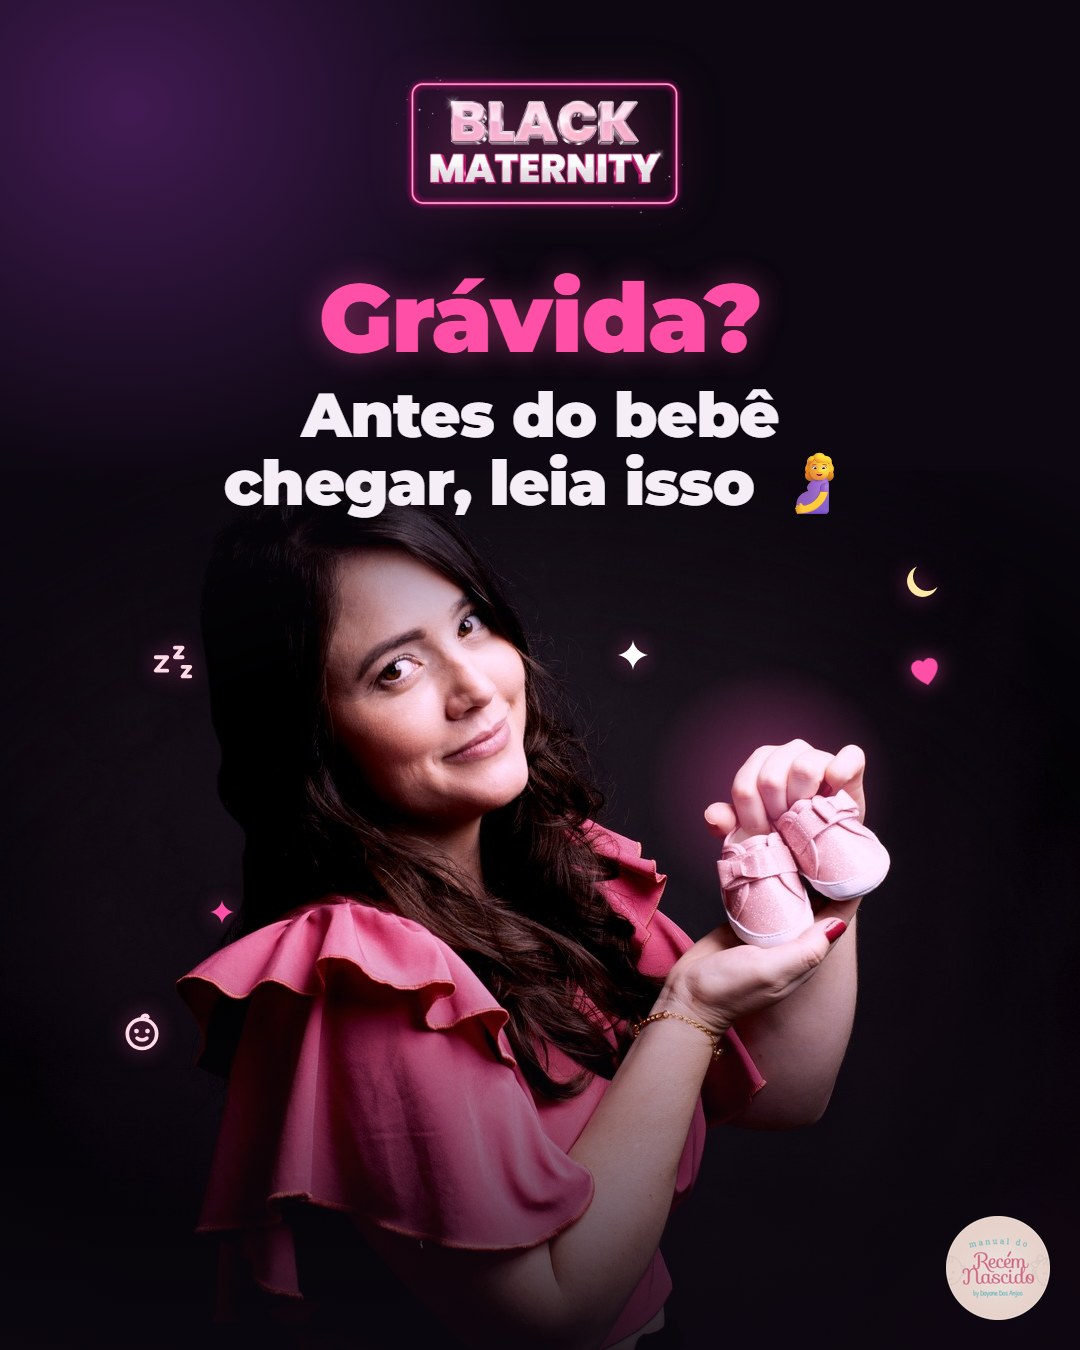
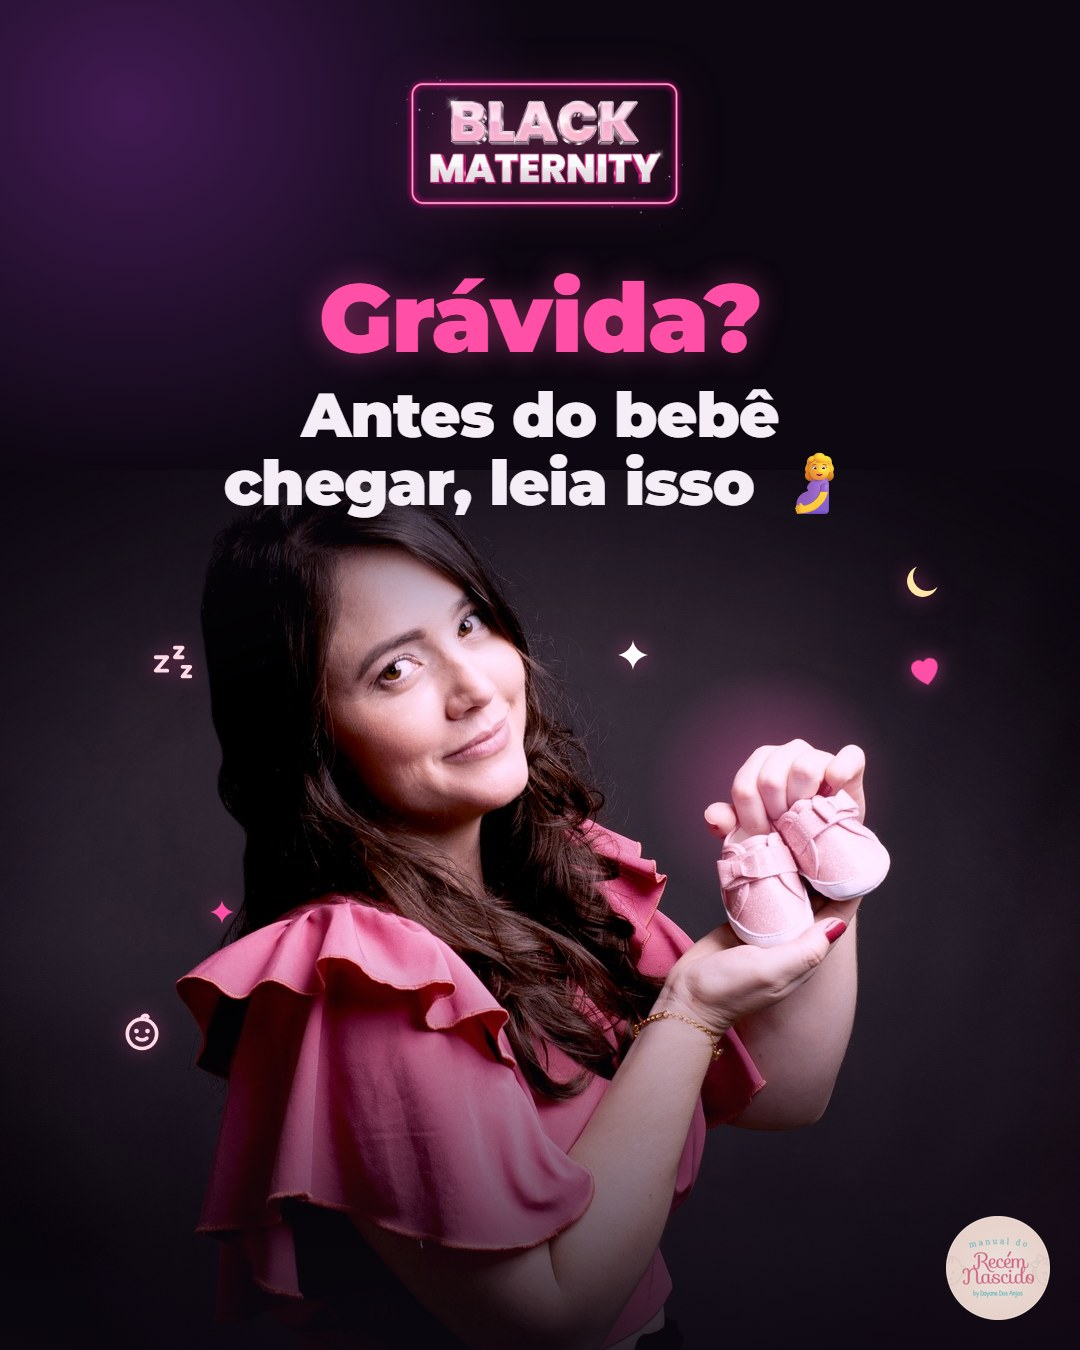
previa black maternity: fotos da Day mais claras

Changed region(s): [[0.0306, 0.4356, 0.9167, 0.8089], [0.4278, 0.4356, 0.4583, 0.4667]]

diff --git a/2026-11-09-carrossel-black-maternity/index.html b/2026-11-09-carrossel-black-maternity/index.html
@@ -19,12 +19,12 @@ pre{white-space:pre-wrap;background:#1B0F22;border:1px solid #3A2346;border-radi
 <div class="eb">Prévia · Instagram @manualdorecemnascido</div>
 <h1>Carrossel Black Maternity 🤰</h1>
 <p class="s">Para gestantes. As lâminas estão na ordem do post, de cima para baixo.</p>
-<div class="car"><figure><img src='01.jpg' alt='Lâmina 1' loading='lazy'><figcaption>1</figcaption></figure><figure><img src='02.jpg' alt='Lâmina 2' loading='lazy'><figcaption>2</figcaption></figure><figure><img src='03.jpg' alt='Lâmina 3' loading='lazy'><figcaption>3</figcaption></figure><figure><img src='04.jpg' alt='Lâmina 4' loading='lazy'><figcaption>4</figcaption></figure><figure><img src='05.jpg' alt='Lâmina 5' loading='lazy'><figcaption>5</figcaption></figure></div>
+<div class="car"><figure><img src='01.jpg?v=2' alt='Lâmina 1' loading='lazy'><figcaption>1</figcaption></figure><figure><img src='02.jpg?v=2' alt='Lâmina 2' loading='lazy'><figcaption>2</figcaption></figure><figure><img src='03.jpg?v=2' alt='Lâmina 3' loading='lazy'><figcaption>3</figcaption></figure><figure><img src='04.jpg?v=2' alt='Lâmina 4' loading='lazy'><figcaption>4</figcaption></figure><figure><img src='05.jpg?v=2' alt='Lâmina 5' loading='lazy'><figcaption>5</figcaption></figure></div>
 <h2>Última lâmina (vai uma das duas)</h2><p class="n">O post fecha com a arte ou com o vídeo da Day, alternando ao agendar.</p>
-<div class="fin"><figure><img src="06.jpg" alt="Final arte"><div>Arte: Comenta MATERNITY</div></figure>
-<figure><video src="video.mp4" controls playsinline preload="metadata" poster="06.jpg"></video><div>Vídeo da Day</div></figure></div>
+<div class="fin"><figure><img src="06.jpg?v=2" alt="Final arte"><div>Arte: Comenta MATERNITY</div></figure>
+<figure><video src="video.mp4" controls playsinline preload="metadata" poster="06.jpg?v=2"></video><div>Vídeo da Day</div></figure></div>
 <h2>Stories (sequência de 3)</h2><p class="n">Mesma pegada do carrossel. A pessoa responde o story com MATERNITY e recebe o link no direct.</p>
-<div class="car"><figure class='st'><img src='story1.jpg' alt='Story 1' loading='lazy'><figcaption>1</figcaption></figure><figure class='st'><img src='story2.jpg' alt='Story 2' loading='lazy'><figcaption>2</figcaption></figure><figure class='st'><img src='story3.jpg' alt='Story 3' loading='lazy'><figcaption>3</figcaption></figure></div>
+<div class="car"><figure class='st'><img src='story1.jpg?v=2' alt='Story 1' loading='lazy'><figcaption>1</figcaption></figure><figure class='st'><img src='story2.jpg?v=2' alt='Story 2' loading='lazy'><figcaption>2</figcaption></figure><figure class='st'><img src='story3.jpg?v=2' alt='Story 3' loading='lazy'><figcaption>3</figcaption></figure></div>
 <h2>Legenda</h2><pre>A melhor hora para se preparar para o bebê é antes dele chegar. 🤰
 
 Na Black Maternity você chega em casa sabendo o que fazer, da primeira mamada ao primeiro ano. Mais de 70% de desconto e bônus especiais no grupo VIP.
